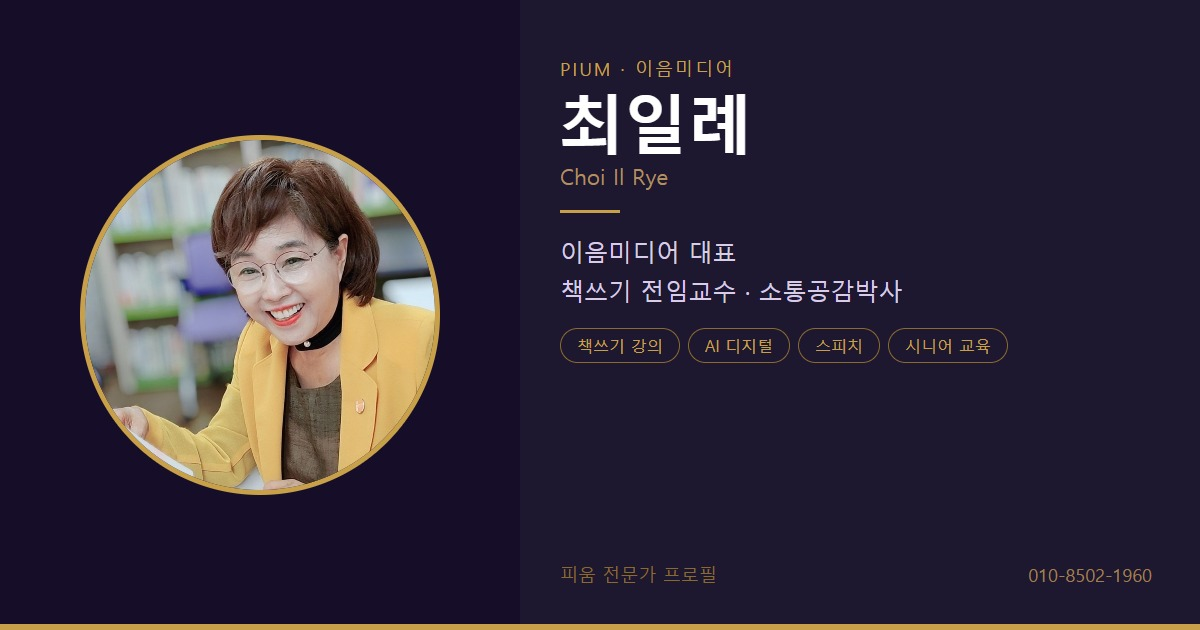
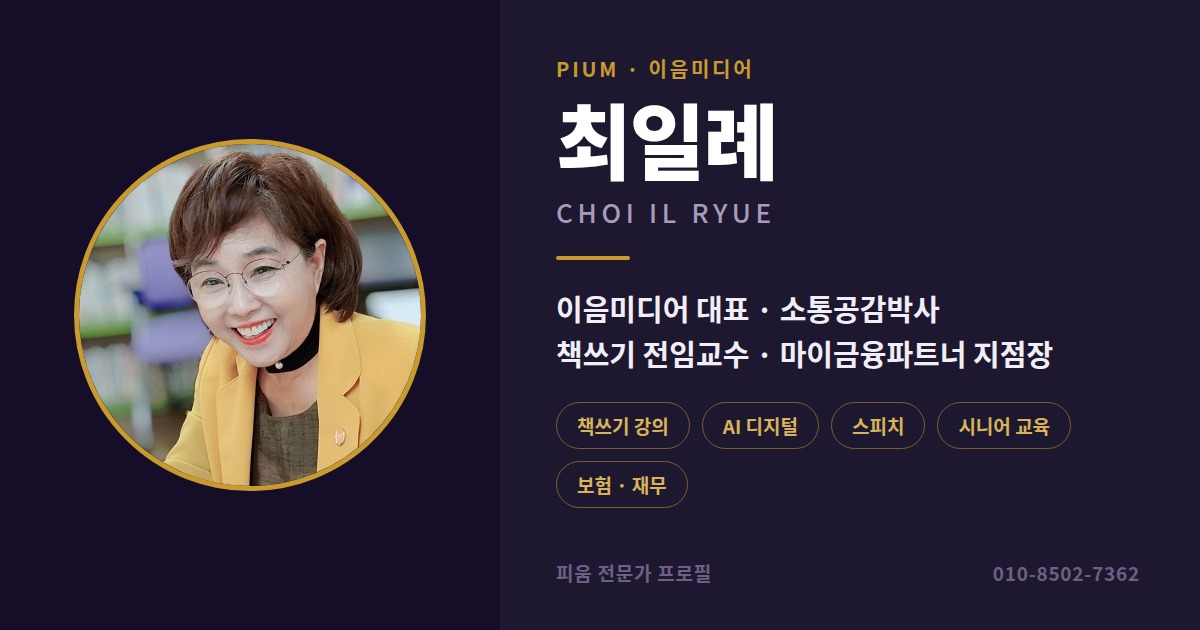
feat: choiilrye profile v2 - B9/G updates
- B-9: 이사장 겸직 표기 확인 배지 삭제
- G-2: choiilrye-og.jpg 교체 (93KB, 신규 디자인)
- G-3: og:title/desc 마이금융파트너 지점장 추가

diff --git a/src/pages/PiumAppDetailPage.jsx b/src/pages/PiumAppDetailPage.jsx
@@ -1794,7 +1794,7 @@ function ChoiilryePage() {
             <div className="cir-awardbar"><i>🏅</i><div><b>2026년 효부대상</b><span>수상 <span className="cir-need">주최 기관 확인</span></span></div></div>
             <div className="cir-cards">
               <div className="cir-card"><b>이음미디어 대표</b><p>소외된 가치를 발굴해 세상과 잇습니다. 월간 매거진을 함께 펴냅니다.</p></div>
-              <div className="cir-card"><b>한국디지털교육원 책쓰기 전임교수</b><p>전자책 작가 <b>150여 명</b>을 배출했습니다. <span className="cir-need">이사장 겸직 표기 확인</span></p></div>
+              <div className="cir-card"><b>한국디지털교육원 책쓰기 전임교수</b><p>전자책 작가 <b>150여 명</b>을 배출했습니다.</p></div>
               <div className="cir-card"><b>봉숭아학당 문화혁신학교 책쓰기 교수 · 방송스피치 총동문회장</b><p>대표님이 방송 스피치를 배운 곳에서, 이제는 가르치고 이끄는 자리에 섰습니다.</p></div>
               <div className="cir-card"><b>유튜브 전문 강사 · 시니어 디지털 교육</b><p>시니어에게 유튜브와 AI 도구를 가르칩니다.</p></div>
               <div className="cir-card"><b>실버 레크리에이션 · 실버 전래놀이 강사</b><p>현장에서 어르신들과 직접 만나 웃음을 나눕니다.</p></div>
